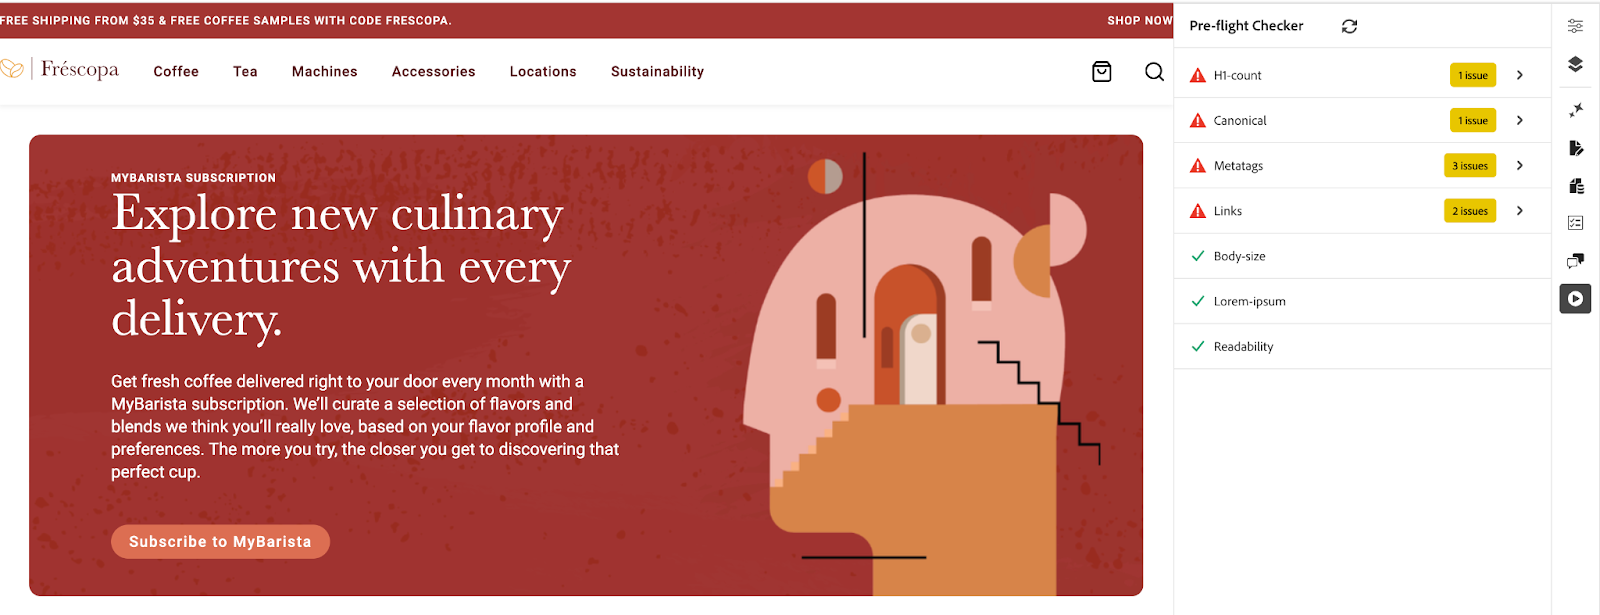
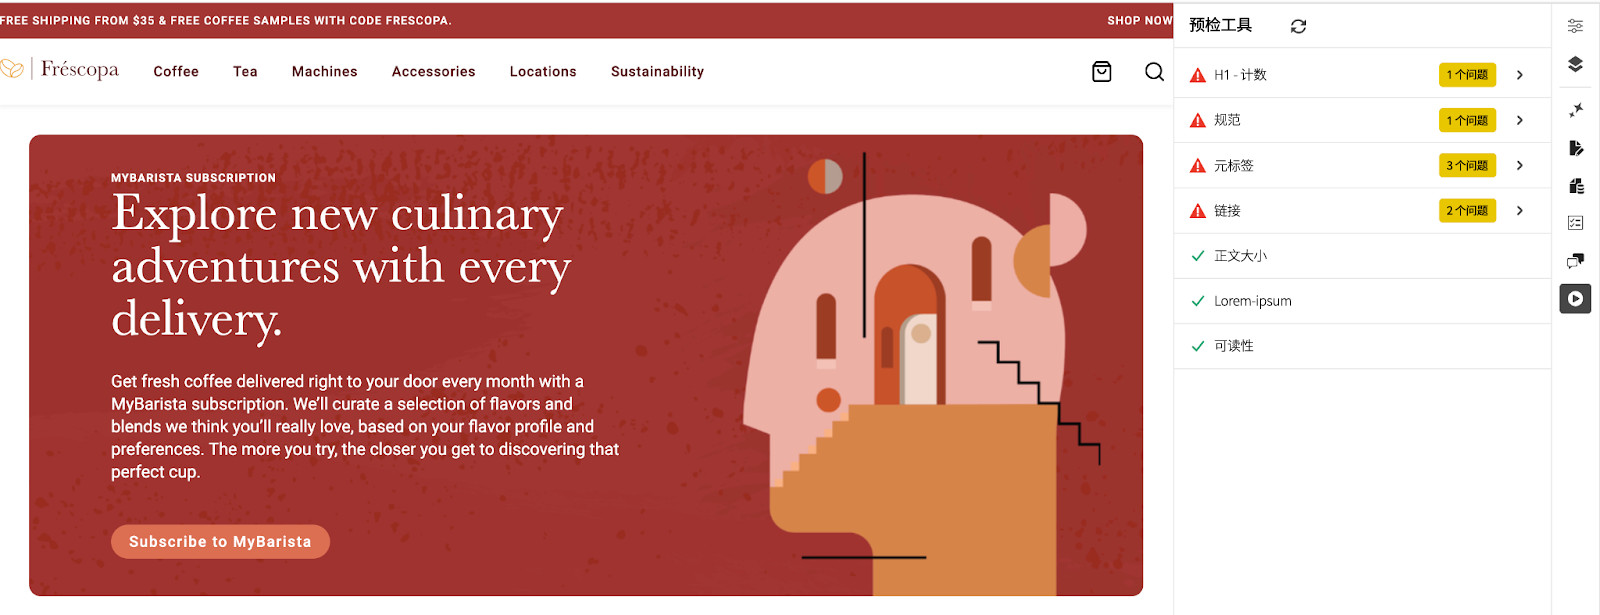
Updated by task 'AUTO_HANDOFF_1756889627385' Changes for core/source commit https://git.corp.adobe.com/AdobeDocs/experience-manager-sites-optimizer.en/commit/ba2e12c11a9e45650d6c946dc3c87fe42aa1aa0d

diff --git a/help/opportunity-types/preflight.md b/help/opportunity-types/preflight.md
@@ -1,19 +1,19 @@
 ---
-title: AEM Sites Optimizer — 预检入门指南
-description: 了解印前检查机会以及如何在AEM Sites Optimizer中设置印前检查分析。
+title: AEM Sites Optimizer - 预检入门指南
+description: 了解预检机会以及如何在 AEM Sites Optimizer 中设置预检分析。
 source-git-commit: 0a6ddcdfd369253500067b31617facfb7f38b656
-workflow-type: tm+mt
+workflow-type: ht
 source-wordcount: '488'
-ht-degree: 6%
+ht-degree: 100%
 
 ---
 
 
-# 印前检查机会
+# 预检机会
 
 ![预检机会](./assets/preflight/hero.png){align="center"}
 
-<span class="preview">AEM Sites Optimizer Preflight会分析页面的技术和性能数据，并在发布之前预测和检测机会。 它使用创作AI来建议优化。</span>
+<span class="preview">AEM Sites Optimizer 预检功能会分析页面的技术和性能数据，并在发布之前预测和检测机会。它使用生成式 AI 来提出优化建议。</span>
 
 ## 机会
 
@@ -53,7 +53,7 @@ ht-degree: 6%
                     <p class="headline is-size-6 has-text-weight-bold">
                         <a href="../documentation/opportunities/invalid-or-missing-metadata.md" target="_blank" rel="referrer" title="规范">规范</a>
                     </p>
-                    <p class="is-size-6">了解标准机会以及如何使用它来改进SEO和防止重复内容问题。</p>
+                    <p class="is-size-6">了解规范机会以及如何使用它来提升 SEO 并防止重复内容问题。</p>
                 </div>
                 <a href="../documentation/opportunities/invalid-or-missing-metadata.md" target="_blank" rel="referrer" class="spectrum-Button spectrum-Button--outline spectrum-Button--primary spectrum-Button--sizeM" style="align-self: flex-start; margin-top: 1rem;">
                     <span class="spectrum-Button-label has-no-wrap has-text-weight-bold">了解详情</span>
@@ -74,9 +74,9 @@ ht-degree: 6%
             <div class="card-content is-padded-small" style="display: flex; flex-direction: column; flex-grow: 1; justify-content: space-between;">
                 <div class="top-card-content">
                     <p class="headline is-size-6 has-text-weight-bold">
-                        <a href="../documentation/opportunities/broken-internal-links.md" target="_blank" rel="referrer" title="中断的内部链接">内部链接已断开</a>
+                        <a href="../documentation/opportunities/broken-internal-links.md" target="_blank" rel="referrer" title="中断的内部链接">中断的内部链接</a>
                     </p>
-                    <p class="is-size-6">了解断开的内部链接机会以及如何使用它来识别和修复网站上的断开或问题链接。</p>
+                    <p class="is-size-6">了解中断的内部链接机会以及如何使用它来识别和修复网站上中断或有问题的链接。</p>
                 </div>
                 <a href="../documentation/opportunities/broken-internal-links.md" target="_blank" rel="referrer" class="spectrum-Button spectrum-Button--outline spectrum-Button--primary spectrum-Button--sizeM" style="align-self: flex-start; margin-top: 1rem;">
                     <span class="spectrum-Button-label has-no-wrap has-text-weight-bold">了解详情</span>
@@ -99,7 +99,7 @@ ht-degree: 6%
                     <p class="headline is-size-6 has-text-weight-bold">
                         <a href="../documentation/opportunities/invalid-or-missing-metadata.md" target="_blank" rel="referrer" title="元标记">元标记</a>
                     </p>
-                    <p class="is-size-6">了解元标记机会以及如何使用它来优化页面的元数据以实现更好的SEO性能。</p>
+                    <p class="is-size-6">了解元标记机会以及如何使用它来优化页面的元数据以获得更好的 SEO 性能。</p>
                 </div>
                 <a href="../documentation/opportunities/invalid-or-missing-metadata.md" target="_blank" rel="referrer" class="spectrum-Button spectrum-Button--outline spectrum-Button--primary spectrum-Button--sizeM" style="align-self: flex-start; margin-top: 1rem;">
                     <span class="spectrum-Button-label has-no-wrap has-text-weight-bold">了解详情</span>
@@ -111,8 +111,8 @@ ht-degree: 6%
         <div class="card" style="height: 100%; display: flex; flex-direction: column; height: 100%;">
             <div class="card-image">
                 <figure class="image x-is-16by9">
-                    <a href="../documentation/opportunities/invalid-or-missing-metadata.md" title="H1计数" target="_blank" rel="referrer">
-                        <img class="is-bordered-r-small" src="../assets/common/card-code.png" alt="H1计数"
+                    <a href="../documentation/opportunities/invalid-or-missing-metadata.md" title="H1 计数" target="_blank" rel="referrer">
+                        <img class="is-bordered-r-small" src="../assets/common/card-code.png" alt="H1 计数"
                              style="width: 100%; aspect-ratio: 16 / 9; object-fit: cover; overflow: hidden; display: block; margin: auto;">
                     </a>
                 </figure>
@@ -120,9 +120,9 @@ ht-degree: 6%
             <div class="card-content is-padded-small" style="display: flex; flex-direction: column; flex-grow: 1; justify-content: space-between;">
                 <div class="top-card-content">
                     <p class="headline is-size-6 has-text-weight-bold">
-                        <a href="../documentation/opportunities/invalid-or-missing-metadata.md" target="_blank" rel="referrer" title="H1计数">H1计数</a>
+                        <a href="../documentation/opportunities/invalid-or-missing-metadata.md" target="_blank" rel="referrer" title="H1 计数">H1 计数</a>
                     </p>
-                    <p class="is-size-6">了解H1计数机会以及如何使用它来确保正确的标题结构和SEO优化。</p>
+                    <p class="is-size-6">了解 H1 计数机会以及如何使用它来确保正确的标题结构和 SEO 优化。</p>
                 </div>
                 <a href="../documentation/opportunities/invalid-or-missing-metadata.md" target="_blank" rel="referrer" class="spectrum-Button spectrum-Button--outline spectrum-Button--primary spectrum-Button--sizeM" style="align-self: flex-start; margin-top: 1rem;">
                     <span class="spectrum-Button-label has-no-wrap has-text-weight-bold">了解详情</span>
@@ -145,7 +145,7 @@ ht-degree: 6%
                     <p class="headline is-size-6 has-text-weight-bold">
                         <a href="../documentation/opportunities/accessibility-issues.md" target="_blank" rel="referrer" title="辅助功能">辅助功能</a>
                     </p>
-                    <p class="is-size-6">了解无障碍机会以及如何使用它确保您的网站可供所有用户访问。</p>
+                    <p class="is-size-6">了解辅助功能机会以及如何使用它来确保所有用户都可以访问您的网站。</p>
                 </div>
                 <a href="../documentation/opportunities/accessibility-issues.md" target="_blank" rel="referrer" class="spectrum-Button spectrum-Button--outline spectrum-Button--primary spectrum-Button--sizeM" style="align-self: flex-start; margin-top: 1rem;">
                     <span class="spectrum-Button-label has-no-wrap has-text-weight-bold">了解详情</span>
@@ -159,20 +159,20 @@ ht-degree: 6%
 
 ## 如何设置
 
-### 通用编辑器设置
+### Universal Editor 设置
 
-1. 从URL转到Extension Manager： https://experience.adobe.com/#/@org/aem/extension-manager/universal-editor
-2. 选择AEM Sites Optimizer Preflight扩展并请求启用
-3. AEM团队将为您的组织启用扩展
-4. 完成后，在通用编辑器中打开一个页面，例如：https://author-p12345-e123456.adobeaemcloud.com/ui#/@org/aem/universal-editor/canvas/author-p12345-e123456.adobeaemcloud.com/content/site/subscription.html
-5. Preflight扩展将显示在侧边栏中
-6. 单击侧边栏中的Preflight扩展将启动当前页面的Preflight审核
+1. 从以下 URL 转到 Extension Manager：https://experience.adobe.com/#/@org/aem/extension-manager/universal-editor
+2. 选择 AEM Sites Optimizer 预检扩展并请求启用
+3. AEM 团队将为您的组织启用此扩展
+4. 完成后，在 Universal Editor 中打开一个页面，例如：https://author-p12345-e123456.adobeaemcloud.com/ui#/@org/aem/universal-editor/canvas/author-p12345-e123456.adobeaemcloud.com/content/site/subscription.html
+5. 预检扩展功能将显示在侧边栏中
+6. 从侧边栏单击“预检扩展”将启动当前页面的“预检审核”
 
 ### 基于文档的预览设置
 
-#### 步骤1：使用“印前检查”按钮启用Sidekick
+#### 步骤 1：使用预检按钮启用 Sidekick
 
-将以下配置添加到GitHub存储库中的`/tools/sidekick/config.json`：
+将以下配置添加到 GitHub 存储库中的 `/tools/sidekick/config.json`：
 
 ```json
 {
@@ -189,9 +189,9 @@ ht-degree: 6%
 }
 ```
 
-#### 步骤2：创建Sidekick集成脚本
+#### 步骤 2：创建 Sidekick 集成脚本
 
-创建包含以下内容的`/tools/sidekick/aem-sites-optimizer-preflight.js`：
+使用以下内容创建 `/tools/sidekick/aem-sites-optimizer-preflight.js`：
 
 ```javascript
 (function () {
@@ -238,9 +238,9 @@ ht-degree: 6%
 }());
 ```
 
-#### 步骤3：更新脚本文件
+#### 步骤 3：更新脚本文件
 
-将以下import语句添加到预览URL的`loadLazy()`中的`/scripts/scripts.js`函数，如下所示：
+将以下导入语句添加到预览 URLs `/scripts/scripts.js` 中的 `loadLazy()` 函数，如下所示：
 
 ```javascript
 if (window.location.href.includes('.aem.page')) {
@@ -248,19 +248,19 @@ if (window.location.href.includes('.aem.page')) {
 }
 ```
 
-现在，“预检”按钮应在Sidekick中可见。
+现在，预检按钮应该显示在 Sidekick 中。
 
-#### 步骤4：运行审核
+#### 步骤 4：运行审核
 
-打开已审核页面的预览URL (*.aem.page)。 单击Sidekick中的“印前检查”按钮。
+打开审核页面的预览 URL (*.aem.page)。单击 Sidekick 上的“预检”按钮。
 
-### AEM Cloud Service设置
+### AEM Cloud Service 设置
 
-您可以使用小书签选项在AEM Cloud Service页面编辑器和沙盒环境中测试预检。
+可以使用书签选项在 AEM Cloud Service 页面编辑器和沙盒环境上测试预检。
 
 <!-- Drag the button below to your Bookmarks Bar to get started. -->
 
-按&#x200B;**Ctrl+Shift+B** (Windows)或&#x200B;**Cmd+Shift+B** (Mac)以显示书签栏。 右键单击书签栏并选择“新建页面”或“添加书签”。 在地址字段中，复制以下代码。
+按 **Ctrl+Shift+B**（Windows）或 **Cmd+Shift+B**（Mac）显示书签栏。右键单击书签栏并选择“新页面”或“添加书签”。在地址字段中复制以下代码。
 
 <!-- **Drag this link to your Bookmarks Bar:**
 
@@ -272,13 +272,13 @@ if (window.location.href.includes('.aem.page')) {
 javascript:(function(){const script=document.createElement('script');script.src='https://experience.adobe.com/solutions/OneAdobe-aem-sites-optimizer-preflight-mfe/static-assets/resources/sidekick/client.js?source=bookmarklet&target-source=aem-cloud-service';document.head.appendChild(script);})();
 ```
 
-添加书签后，打开已审核页面的预览URL (*.aem.page)。 单击Preflight书签以开始Preflight审核。
+添加书签后，打开审核页面的预览 URL (*.aem.page)。单击“预检”书签即可开始预检审核。
 
 ## 最佳实践
 
-使用Preflight时，请注意以下事项：
+使用预检功能时，请注意以下：
 
-* 在发布之前，对所有暂存/预览页面运行印前检查审核。
-* 首先解决高影响问题（链接损坏、缺少H1标记、链接不安全）。
+* 发布之前，对所有暂存/预览页面运行预检审核。
+* 首先解决影响较大的问题（中断的链接、缺少 H1 标记、不安全的链接）。
 * 为受保护的暂存环境启用身份验证。
-* 查看并实施Meta标记建议以提高SEO性能。
+* 审阅并实施元标记建议以获得更好的 SEO 性能。

diff --git a/help/opportunity-types/overview.md b/help/opportunity-types/overview.md
@@ -2,9 +2,9 @@
 title: Sites Optimizer 机会类型
 description: 了解 Sites Optimizer 中的关键机会类型，以及它们如何帮助您提高网站的性能。
 source-git-commit: 469370cfcb19e25bf8da5f7f9e08b8b0da52dbb9
-workflow-type: tm+mt
+workflow-type: ht
 source-wordcount: '343'
-ht-degree: 80%
+ht-degree: 100%
 
 ---
 
@@ -22,9 +22,9 @@ AEM Sites Optimizer 提供了有价值的洞察和推荐，帮助您提高网站
 * 网站健康
 * 预检
 
-每个类别都强调了一种提升网站表现的方式。某一类别可能有助于提升访客互动。另一个类别则可能有助于提升网站的可发现性。其他则侧重于加强安全或维护站点稳定。 Preflight可帮助您在发布页面之前分析和优化页面。
+每个类别都强调了一种提升网站表现的方式。某一类别可能有助于提升访客互动。另一个类别则可能有助于提升网站的可发现性。其他类别则侧重于增强安全性或维持网站稳定性。预检可帮助您在发布页面之前对其进行分析和优化。
 
-利用这些机会可以改善用户体验，吸引合适的受众，并确保您的网站安全可靠。增强参与和流量获取可促进交互和可见性，而强大的安全态势和站点运行状况有助于确保信任和稳定。 印前检查分析可确保您的内容在投入使用之前得到优化。 浏览下面的链接，查看按类别组织的机会，并找到改进网站的方法。
+利用这些机会可以改善用户体验，吸引合适的受众，并确保您的网站安全可靠。增强参与度和流量获取可以推动网站的互动和可见性，而强大的安全态势和网站健康有助于确保对网站的信任并使其保持稳定。预检分析可确保您的内容在发布之前得到优化。浏览下面的链接，查看按类别组织的机会，并找到改进网站的方法。
 
 ## 机会类型
 
@@ -199,7 +199,7 @@ AEM Sites Optimizer 提供了有价值的洞察和推荐，帮助您提高网站
                     <p class="headline is-size-6 has-text-weight-bold">
                         <a href="./preflight.md" target="_blank" rel="referrer" title="预检">预检</a>
                     </p>
-                    <p class="is-size-6">了解印前检查分析以及如何在Sites Optimizer中设置印前检查机会。</p>
+                    <p class="is-size-6">了解预检分析以及如何在 Sites Optimizer 中设置预检机会。</p>
                 </div>
                 <a href="./preflight.md" target="_blank" rel="referrer" class="spectrum-Button spectrum-Button--outline spectrum-Button--primary spectrum-Button--sizeM" style="align-self: flex-start; margin-top: 1rem;">
                     <span class="spectrum-Button-label has-no-wrap has-text-weight-bold">了解详情</span>
